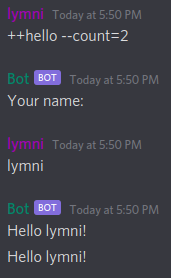
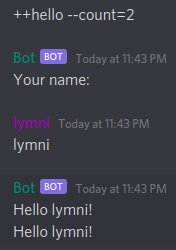
feat!: buffer calls to echo
BREAKING CHANGE: SmallDCliRunnerContext tuple-like behavior is no longer supported

diff --git a/smalld_click/smalld_click.py b/smalld_click/smalld_click.py
@@ -2,8 +2,8 @@ import contextlib
 import logging
 import shlex
 import threading
-from collections import namedtuple
 from concurrent.futures import ThreadPoolExecutor
+from io import StringIO
 
 import click
 from pkg_resources import get_distribution
@@ -14,7 +14,12 @@ __version__ = get_distribution("smalld-click").version
 logger = logging.getLogger("smalld_click")
 
 
-SmallDCliRunnerContext = namedtuple("SmallDCliRunnerContext", ["runner", "message"])
+class SmallDCliRunnerContext:
+    def __init__(self, runner, message):
+        self.runner = runner
+        self.message = message
+        self.echo_buffer = StringIO()
+        self.buffered = True
 
 
 def get_runner_context():
@@ -57,6 +62,7 @@ class SmallDCliRunner:
             ctx = self.cli.make_context(self.cli.name, args, parent=parent_ctx)
             manager.enter_context(ctx)
             self.cli.invoke(ctx)
+            echo(flush=True, nl=False)
 
     def wait_for_message(self, msg):
         handle = Completable()
@@ -91,7 +97,7 @@ def managed_click_execution():
             pass
         except TimeoutError:
             pass
-        except Exception as e:
+        except:
             logger.exception("exception in command handler")
 
 
@@ -115,20 +121,42 @@ class Completable:
             return self._result
 
 
-def echo(message="", *args, **kwargs):
-    if not message:
+def echo(message=None, nl=True, file=None, *args, flush=False, **kwargs):
+    ctx = get_runner_context()
+
+    click_echo(message, file=ctx.echo_buffer, nl=nl, *args, **kwargs)
+    if ctx.buffered and not flush:
         return
 
-    runner, msg = get_runner_context()
-    runner.smalld.post(f"/channels/{msg['channel_id']}/messages", {"content": message})
+    content = ctx.echo_buffer.getvalue()
+    if not content.strip():
+        return
+    ctx.echo_buffer = StringIO()
+
+    smalld, msg = ctx.runner.smalld, ctx.message
+    smalld.post(f"/channels/{msg['channel_id']}/messages", {"content": content})
+
+
+def prompt(*args, **kwargs):
+    ctx = get_runner_context()
+
+    ctx.buffered = False
+    result = click_prompt(*args, **kwargs)
+    ctx.buffered = True
+    return result
 
 
 def visible_prompt(prompt="", *args, **kwargs):
-    runner, msg = get_runner_context()
+    ctx = get_runner_context()
+    runner, msg = ctx.runner, ctx.message
+
     if prompt:
-        echo(prompt)
+        echo(prompt, flush=True)
     return runner.wait_for_message(msg)
 
+
+click_echo = click.echo
+click_prompt = click.prompt
 
 click.echo = echo
 click.core.echo = echo
@@ -136,5 +164,9 @@ click.utils.echo = echo
 click.termui.echo = echo
 click.decorators.echo = echo
 click.exceptions.echo = echo
+
+click.prompt = prompt
+click.termui.prompt = prompt
+click.core.prompt = prompt
 
 click.termui.visible_prompt_func = visible_prompt

diff --git a/test/test_smalld_click.py b/test/test_smalld_click.py
@@ -1,5 +1,5 @@
 from concurrent.futures import Executor
-from unittest.mock import Mock, patch
+from unittest.mock import Mock, call, patch
 
 import click
 
@@ -79,19 +79,46 @@ def test_handles_echo(subject, smalld):
     subject.on_message(data)
 
     smalld.post.assert_called_once_with(
-        f"/channels/{data['channel_id']}/messages", {"content": "echo"}
+        f"/channels/{data['channel_id']}/messages", {"content": "echo\n"}
     )
 
 
-def test_handles_prompt(subject, smalld, completable):
-    def wait_side_effect(timeout):
-        return True
+def test_buffers_calls_to_echo(subject, smalld):
+    @click.command()
+    def command():
+        click.echo("echo 1")
+        click.echo("echo 2")
 
+    subject.cli = command
+    data = make_message("command")
+    subject.on_message(data)
+
+    smalld.post.assert_called_once_with(
+        f"/channels/{data['channel_id']}/messages", {"content": "echo 1\necho 2\n"}
+    )
+
+
+def test_should_not_send_empty_messages(subject, smalld):
+    @click.command()
+    def command():
+        click.echo("")
+
+    subject.cli = command
+    subject.on_message(make_message("command"))
+
+    assert smalld.post.call_count == 0
+
+
+def completable_wait_side_effect(timeout):
+    return True
+
+
+def test_handles_prompt(subject, smalld, completable):
     @click.command()
     def command():
         click.prompt("prompt")
 
-    completable.wait.side_effect = wait_side_effect
+    completable.wait.side_effect = completable_wait_side_effect
     subject.cli = command
     data = make_message("command")
     subject.on_message(data)
@@ -101,6 +128,32 @@ def test_handles_prompt(subject, smalld, completable):
         f"/channels/{data['channel_id']}/messages", {"content": "prompt: "}
     )
     completable.complete_with.assert_called_once_with("result")
+
+
+def test_sends_prompts_without_buffering(subject, smalld, completable):
+    @click.command()
+    def command():
+        click.echo("echo 1")
+        click.prompt("prompt 1")
+        click.prompt("prompt 2")
+        click.echo("echo 2")
+
+    completable.wait.side_effect = completable_wait_side_effect
+    subject.cli = command
+    data = make_message("command")
+    route = f"/channels/{data['channel_id']}/messages"
+
+    subject.on_message(data)
+    subject.on_message(make_message("result"))
+    subject.on_message(make_message("result"))
+
+    smalld.post.assert_has_calls(
+        [
+            call(route, {"content": "echo 1\nprompt 1: "}),
+            call(route, {"content": "prompt 2: "}),
+            call(route, {"content": "echo 2\n"}),
+        ]
+    )
 
 
 def test_drops_conversation_when_timed_out(subject, completable):

diff --git a/README.md b/README.md
@@ -48,7 +48,11 @@ by sending a message in the same channel - for their name, "Your name:".
 
 If the user answers with "lymni", for example, the bot will send the message, "Hello lymni", twice.
 
-![Example Run](examples/example_run.png)
+Notice that the bot responds in a single message, instead of two, even though we call `click.echo` multiple times.
+This is because calls to echo are buffered. However, calls to prompt will cause this buffer to be flushed and its
+content is sent immediately.
+
+![Example Run](https://raw.githubusercontent.com/aymanizz/smalld-click/master/examples/example_run.png)
 
 There is also a timeout for how long the bot will wait for the user's message, if the timeout is exceeded the bot will
 simply drop the execution of the command.
@@ -70,10 +74,10 @@ The `SmallDCliRunner` is the core class for running CLI applications.
 Instances of this class should be used as a context manager, to properly close the executor when the bot stops.
 
 ```python
-SmallDCliRunnerContext = namedtuple("SmallDCliRunnerContext", ["runner", "message"])
+SmallDCliRunnerContext(runner, message)
 ```
 
-The context for this command invocation, consists of the runner itself, and the message payload that triggered the
+The context for this command invocation, holds the runner instance, and the message payload that triggered the
 execution of this command.
 
 ```python
@@ -89,6 +93,9 @@ You can use `click.echo`, and `click.prompt` directly to send/wait for messages.
 supported yet and shouldn't be used.
 
 Note that, echo and prompt will send a message in the same channel as the message that triggered the command invocation.
+
+Calls to echo are buffered, the buffer is flushed either when there is a prompt or when the command finishes execution.
+It's also possible to flush the buffer by passing `flush=True` to `click.echo` call.
 
 ## Acknowledgements
 
